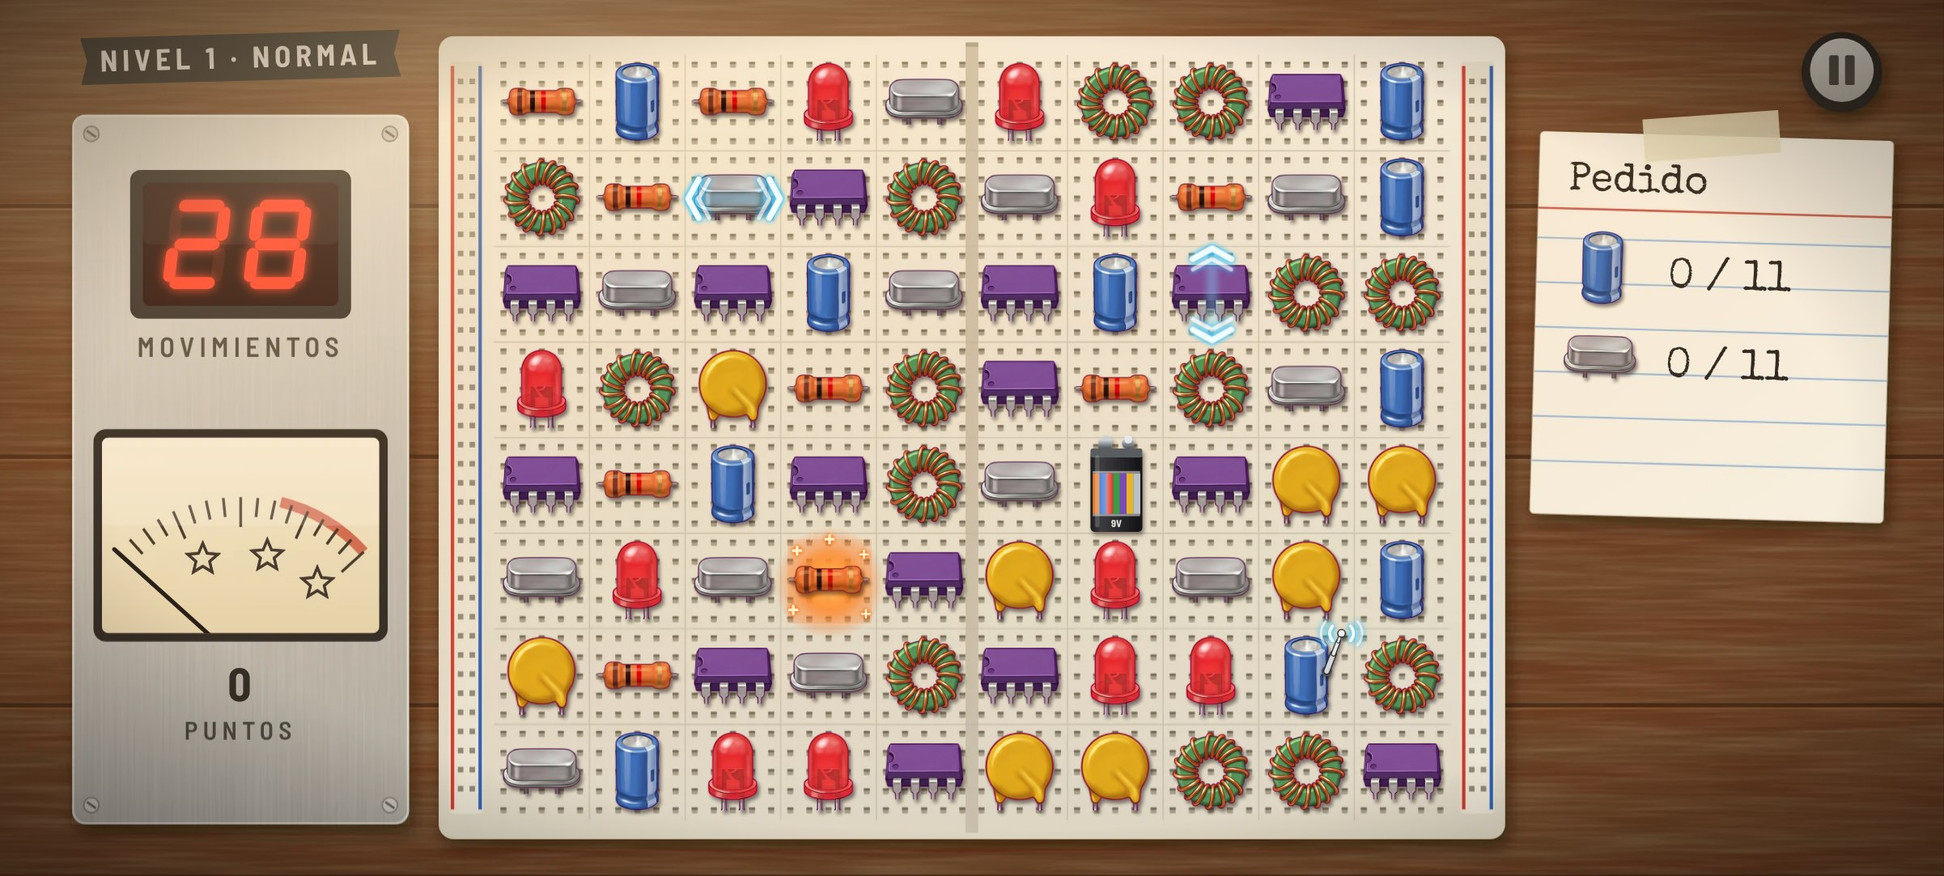
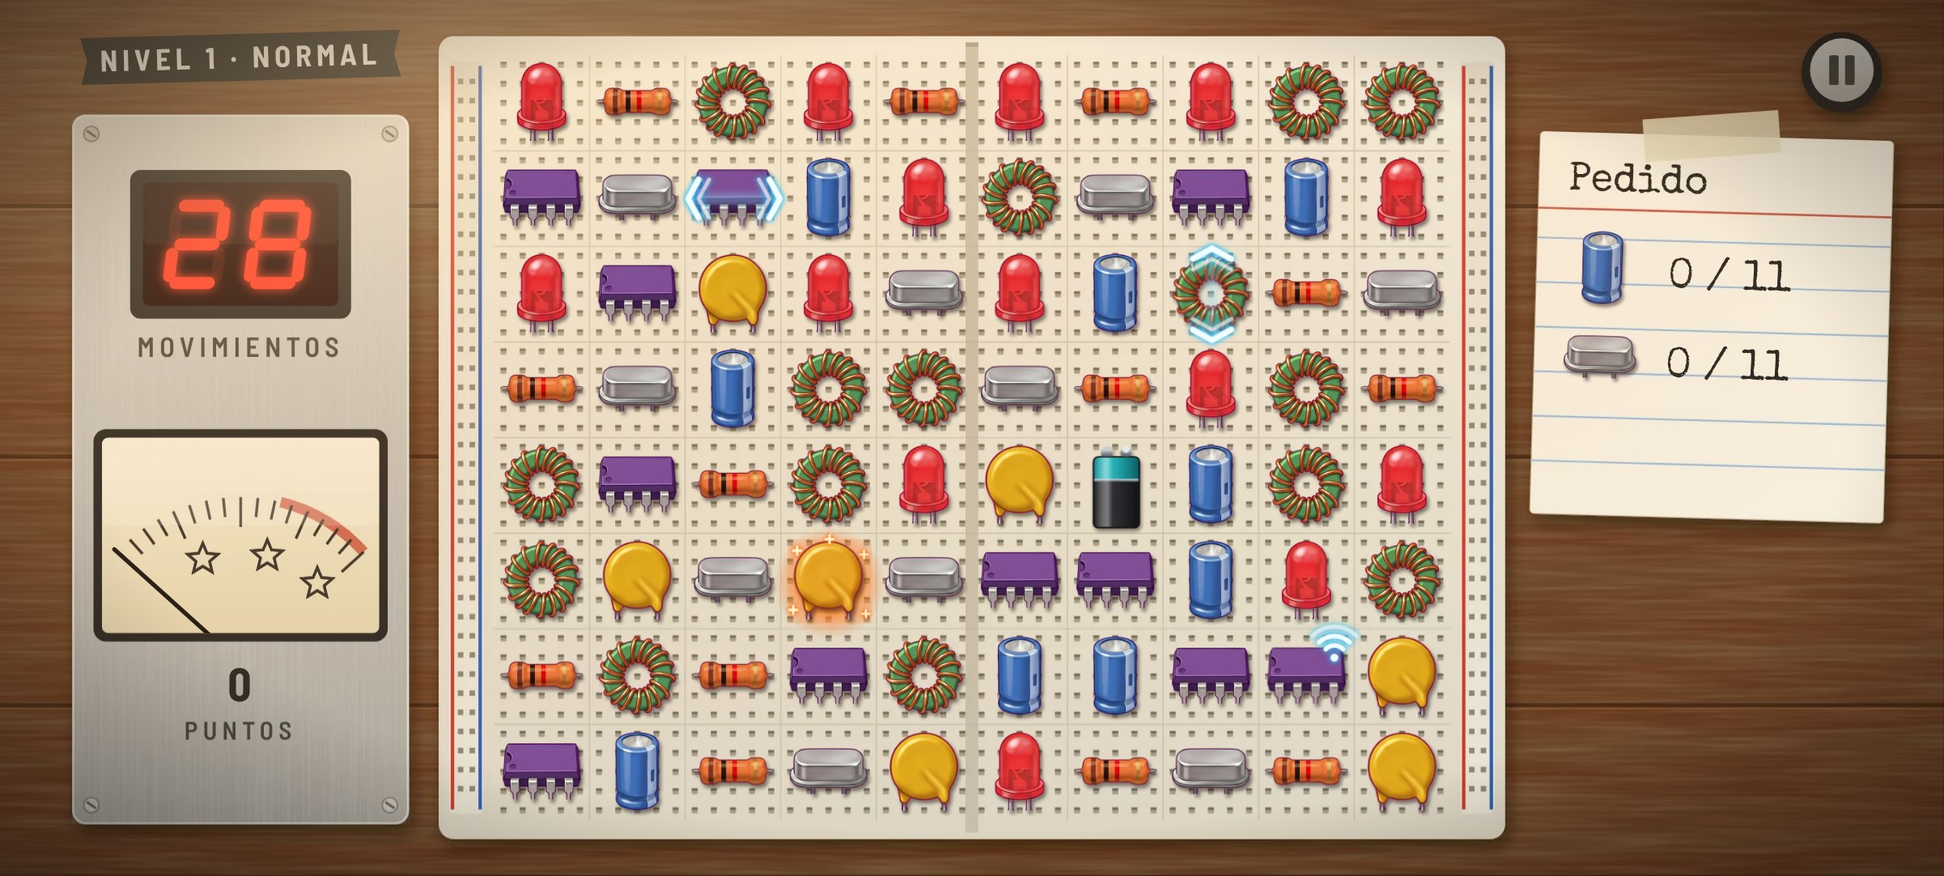
Sala: S-10 revisado (batería en dos colores, antena con wifi) y lámina del pedido P-005
Claude-Session: https://claude.ai/code/session_017azxToBAa3TBf46GAgtXxU

Changed region(s): [[0.2498, 0.061, 0.7494, 0.9455], [0.4371, 0.0915, 0.4996, 0.1525]]

diff --git a/herramientas/sala/arte-s10.js b/herramientas/sala/arte-s10.js
@@ -31,6 +31,8 @@ window.S10 = (() => {
     <linearGradient id="s10wood" x1="0" y1="0" x2="1" y2=".3"><stop offset="0" stop-color="#7c4523"/><stop offset=".5" stop-color="#6a3a1c"/><stop offset="1" stop-color="#5a3016"/></linearGradient>
     <linearGradient id="s10shadowT" x1="0" y1="0" x2="0" y2="1"><stop offset="0" stop-color="#140902" stop-opacity=".7"/><stop offset="1" stop-color="#140902" stop-opacity="0"/></linearGradient>
     <linearGradient id="s10shadowL" x1="0" y1="0" x2="1" y2="0"><stop offset="0" stop-color="#140902" stop-opacity=".6"/><stop offset="1" stop-color="#140902" stop-opacity="0"/></linearGradient>
+    <linearGradient id="s10teal" x1="0" y1="0" x2="1" y2="0"><stop offset="0" stop-color="#0f7e86"/><stop offset=".25" stop-color="#3fc6c8"/><stop offset=".55" stop-color="#1fa3a8"/><stop offset="1" stop-color="#0b5f66"/></linearGradient>
+    <linearGradient id="s10smoke" x1="0" y1="0" x2="1" y2="0"><stop offset="0" stop-color="#6f787e"/><stop offset=".25" stop-color="#b9c4c8"/><stop offset=".5" stop-color="#8e989d"/><stop offset="1" stop-color="#5a6268"/></linearGradient>
   </defs>`;
 
   const g = (x, y, s, body, extra = '') => `<g transform="translate(${x} ${y}) scale(${s / 100})" ${extra}>${body}</g>`;
@@ -50,31 +52,20 @@ window.S10 = (() => {
     sobreUnder: () => `<circle cx="50" cy="52" r="58" fill="url(#s10hot)"/><circle cx="50" cy="52" r="40" fill="url(#s10hot)"/>`,
     sobreOver: () => `<g filter="url(#s10ember)">${[[16, 18], [86, 22], [12, 80], [88, 84], [50, 6]].map(([x, y], i) => `<path d="M${x - 4},${y} h8 M${x},${y - 4} v8" stroke="#fff4c8" stroke-width="${i % 2 ? 2 : 2.6}" stroke-linecap="round"/>`).join('')}</g>
       <path d="M30,8 q4,-6 0,-12 M50,4 q4,-6 0,-12 M70,8 q4,-6 0,-12" stroke="#ffd59a" stroke-width="1.6" fill="none" opacity=".5"/>`,
-    // Battery: a 9 V battery whose label has the seven component colors.
-    bateria: () => {
-      const cols = ['#e07a2a', '#2f6fd6', '#e33a2c', '#3e9a4a', '#7a4bb3', '#e7b52a', '#b9c0c6'];
-      const band = cols.map((c, i) => `<rect x="${29 + i * 6}" y="40" width="6.2" height="36" fill="${c}"/>`).join('');
-      return `<g filter="url(#s10drop)" transform="translate(50 56) scale(1.18) translate(-50 -56)">
-        <rect x="27" y="22" width="46" height="70" rx="4" fill="url(#s10bat)"/>
-        ${band}
-        <rect x="29" y="40" width="42" height="36" fill="url(#s10gloss)"/>
-        <rect x="29" y="38" width="42" height="2" fill="#d9d9d9" opacity=".6"/><rect x="29" y="76" width="42" height="2" fill="#d9d9d9" opacity=".6"/>
-        <text x="50" y="88" text-anchor="middle" font-family="Barlow, sans-serif" font-weight="700" font-size="9" fill="#e9e5dc">9V</text>
-        <rect x="27" y="18" width="46" height="8" rx="2" fill="#5a5d61"/>
-        <path d="M34,18 v-8 h12 v8 z" fill="url(#s10steel)"/><path d="M35,10 l4,-3 h4 l4,3 z" fill="#c9cdd1"/>
-        <rect x="55" y="9" width="11" height="9" rx="4" fill="url(#s10steel)"/><circle cx="60.5" cy="10" r="3.5" fill="#e6e9ec"/>
-        <rect x="31" y="24" width="4" height="64" rx="2" fill="#fff" opacity=".18"/>
-      </g>`;
-    },
-    // Antenna: the component with a short telescopic whip and two wave arcs.
-    antena: () => `<g filter="url(#s10drop)">
-        <circle cx="70" cy="44" r="5.5" fill="#4a4e53"/><circle cx="70" cy="44" r="3.2" fill="#c9cdd1"/>
-        <path d="M70,44 L77,26" stroke="#2f3236" stroke-width="7.5" stroke-linecap="round"/><path d="M70,44 L77,26" stroke="#d3d7da" stroke-width="5" stroke-linecap="round"/>
-        <path d="M77,26 L82,13" stroke="#2f3236" stroke-width="5.6" stroke-linecap="round"/><path d="M77,26 L82,13" stroke="#e6e9ec" stroke-width="3.4" stroke-linecap="round"/>
-        <path d="M82,13 L85,5" stroke="#2f3236" stroke-width="4" stroke-linecap="round"/><path d="M82,13 L85,5" stroke="#f5f6f7" stroke-width="2.2" stroke-linecap="round"/>
-        <circle cx="85.5" cy="4.5" r="4" fill="#eef0f2" stroke="#2f3236" stroke-width="1.3"/></g>
-      <g filter="url(#s10blue)" fill="none" stroke="#f2fdff" stroke-linecap="round"><path d="M76,-3 A11,11 0 0 0 76,12" stroke-width="3"/><path d="M95,-3 A11,11 0 0 1 95,12" stroke-width="3"/>
-        <path d="M69,-8 A18,18 0 0 0 69,17" stroke-width="2.4" opacity=".6"/><path d="M102,-8 A18,18 0 0 1 102,17" stroke-width="2.4" opacity=".6"/></g>`,
+    // Battery: a standing 9 V battery, two-tone like the well-known copper-top scheme but black and turquoise; no text.
+    bateria: () => `<g filter="url(#s10drop)">
+        <rect x="26" y="20" width="48" height="74" rx="5" fill="url(#s10bat)"/>
+        <path d="M26,25 a5,5 0 0 1 5,-5 h38 a5,5 0 0 1 5,5 v19 h-48 z" fill="url(#s10teal)"/>
+        <rect x="26" y="43" width="48" height="3" fill="url(#s10steel)"/>
+        <rect x="26" y="20" width="48" height="74" rx="5" fill="url(#s10gloss)"/>
+        <rect x="26" y="20" width="48" height="74" rx="5" fill="none" stroke="#141416" stroke-width="1.6"/>
+        <path d="M34,20 v-8 h12 v8 z" fill="url(#s10steel)"/><path d="M35,12 l4,-3 h4 l4,3 z" fill="#c9cdd1"/>
+        <rect x="54" y="11" width="12" height="9" rx="4" fill="url(#s10steel)"/><circle cx="60" cy="12" r="3.6" fill="#e6e9ec"/>
+      </g>`,
+    // Antenna: the component with a wifi-like symbol whose arcs light up in turn (animated in the game).
+    antena: () => `<g filter="url(#s10blue)" fill="none" stroke="#f2fdff" stroke-linecap="round" transform="translate(78 30)">
+        <circle cx="0" cy="0" r="4" fill="#f2fdff" stroke="none"/>
+        <path d="M-9,-9 A12.7,12.7 0 0 1 9,-9" stroke-width="4.6"/><path d="M-16,-16 A22.6,22.6 0 0 1 16,-16" stroke-width="4.6"/><path d="M-23,-23 A32.5,32.5 0 0 1 23,-23" stroke-width="4.2" opacity=".55"/></g>`,
 
     // ---------- obstacles ----------
     // Copper pad under a component: one pass solders it.
@@ -84,7 +75,9 @@ window.S10 = (() => {
     pad2: () => D.pad1() + [[14, 14], [86, 14], [14, 86], [86, 86]].map(([x, y]) => `<circle cx="${x}" cy="${y + 1.5}" r="7" fill="#3a1c08" opacity=".5"/><circle cx="${x}" cy="${y}" r="6.5" fill="url(#s10brass)"/><circle cx="${x}" cy="${y}" r="2.2" fill="#4a3608"/>`).join(''),
     // Soldered pad: tinned, shiny.
     padOk: () => `<rect x="3" y="3" width="94" height="94" rx="9" fill="#b8bdc1"/><rect x="5" y="5" width="90" height="90" rx="8" fill="url(#s10tin)"/>
-      <ellipse cx="34" cy="28" rx="18" ry="8" fill="#fff" opacity=".55" transform="rotate(-20 34 28)"/>`,
+      <ellipse cx="50" cy="52" rx="24" ry="22" fill="#8d959b"/><ellipse cx="50" cy="50" rx="22" ry="20" fill="url(#s10tin)"/>
+      <ellipse cx="42" cy="42" rx="8" ry="5" fill="#fff" opacity=".8" transform="rotate(-25 42 42)"/>
+      <ellipse cx="30" cy="22" rx="14" ry="5" fill="#fff" opacity=".45" transform="rotate(-20 30 22)"/>`,
     // Burnt component: a charred, cracked blob with a scorch mark on the board. One hit.
     quem1: () => `<circle cx="50" cy="54" r="50" fill="url(#s10scorch)"/>
       <path d="M22,62 C14,44 26,22 46,20 C66,16 84,30 80,52 C86,70 70,86 50,84 C34,86 20,78 22,62 Z" fill="url(#s10char)" filter="url(#s10drop)"/>
@@ -108,13 +101,13 @@ window.S10 = (() => {
     valvula: () => `<circle cx="50" cy="50" r="40" fill="#ffa040" opacity=".35" filter="url(#s10soft)"/><g filter="url(#s10drop)" transform="translate(50 54) scale(1.3 1.12) translate(-50 -54)">
         ${[38, 46, 54, 62].map(x => `<rect x="${x - 1.2}" y="88" width="2.4" height="9" fill="#c9cdd1"/>`).join('')}
         <path d="M30,78 h40 v10 a4,4 0 0 1 -4,4 h-32 a4,4 0 0 1 -4,-4 z" fill="url(#s10bake)"/>
-        <rect x="38" y="36" width="24" height="34" rx="2" fill="#5d646a"/><rect x="40" y="38" width="20" height="30" fill="#3d4247"/>
+        <path d="M28,80 V30 C28,14 38,8 50,8 C62,8 72,14 72,30 V80 Z" fill="url(#s10smoke)"/>
+        <rect x="38" y="36" width="24" height="34" rx="2" fill="#4a5056"/><rect x="40" y="38" width="20" height="30" fill="#2c3035"/>
         <rect x="46.5" y="32" width="7" height="40" fill="#ffc070" filter="url(#s10ember)"/><rect x="48.8" y="34" width="2.4" height="36" fill="#fff4d0"/>
-        <path d="M28,80 V30 C28,14 38,8 50,8 C62,8 72,14 72,30 V80 Z" fill="url(#s10glass)" stroke="#ffffff" stroke-opacity=".55" stroke-width="1.5"/>
-        <path d="M30,30 C30,16 40,10 50,10 C60,10 70,16 70,30 C64,24 36,24 30,30 Z" fill="url(#s10getter)" opacity=".9"/>
-        <rect x="33" y="30" width="5" height="46" rx="2.5" fill="#fff" opacity=".45"/>
-      </g>
-      `,
+        <path d="M30,30 C30,16 40,10 50,10 C60,10 70,16 70,30 C64,24 36,24 30,30 Z" fill="url(#s10getter)"/>
+        <rect x="32" y="30" width="5" height="46" rx="2.5" fill="#fff" opacity=".55"/><rect x="64" y="34" width="2.5" height="40" rx="1.2" fill="#fff" opacity=".3"/>
+        <path d="M28,80 V30 C28,14 38,8 50,8 C62,8 72,14 72,30 V80 Z" fill="none" stroke="#3a4146" stroke-width="1.6"/>
+      </g>`,
     // Hole: no protoboard there; the walnut bench shows through, with the board's cut edge.
     hueco: () => `<rect x="0" y="0" width="100" height="100" fill="url(#s10wood)"/><rect x="0" y="0" width="100" height="100" fill="#000" filter="url(#s10grain)" opacity=".9"/>`,
   };

diff --git a/herramientas/sala/referencia-p005.html b/herramientas/sala/referencia-p005.html
@@ -1,0 +1,34 @@
+<!doctype html>
+<html lang="es">
+<head>
+<meta charset="utf-8">
+<!-- Reference sheet for image request P-005: the eight new objects on magenta, 4 × 2, like the P-002 sheet.
+     Only the objects: glows, sparks, scorch, tape and waves are drawn by code in the game. -->
+<style>html, body { margin: 0; background: #ff00ff; } svg { display: block; }</style>
+</head>
+<body>
+<svg id="s" width="1920" height="1080" viewBox="0 0 1920 1080" xmlns="http://www.w3.org/2000/svg"></svg>
+<script src="arte-s10.js"></script>
+<script>
+const D = S10.D, Z = 360;
+// strip what belongs to code (scorch halo, outer glow) from the object drawings
+const noHalo = str => str.replace(/<circle cx="50" cy="5[04]" r="50" fill="url\(#s10scorch\)"\/>/, '').replace(/<circle cx="50" cy="50" r="40" fill="#ffa040"[^>]*\/>/, '');
+// a single octal tube socket, seen like the pieces: from the front, a little from above
+const zocalo = () => `<g filter="url(#s10drop)">
+  <rect x="14" y="58" width="72" height="22" rx="4" fill="url(#s10bake)"/>
+  <ellipse cx="50" cy="58" rx="36" ry="16" fill="#4a3022"/><ellipse cx="50" cy="57" rx="33" ry="14" fill="#2a1a10"/>
+  <ellipse cx="50" cy="57" rx="10" ry="4.6" fill="#0e0805"/><rect x="48" y="51" width="4" height="4" fill="#0e0805"/>
+  ${[...Array(8)].map((_, i) => { const a = (i / 8) * Math.PI * 2 + .2; return `<ellipse cx="${50 + 24 * Math.cos(a)}" cy="${57 + 9.6 * Math.sin(a)}" rx="3" ry="1.6" fill="#0e0805"/><ellipse cx="${50 + 24 * Math.cos(a)}" cy="${57 + 9.6 * Math.sin(a) - .4}" rx="1.6" ry=".8" fill="#c9a13e"/>`; }).join('')}
+  <path d="M18,66 Q50,74 82,66" stroke="#6a4a32" stroke-width="1.4" fill="none"/>
+  ${[22, 78].map(x => `<rect x="${x - 7}" y="60" width="14" height="5" rx="1.5" fill="url(#s10steel)"/><circle cx="${x}" cy="62.5" r="1.6" fill="#4e5459"/>`).join('')}
+</g>`;
+const ITEMS = [D.bateria(), D.pad1(), D.pad2(), D.padOk(), noHalo(D.quem1()), noHalo(D.quem2()), noHalo(D.valvula()), zocalo()];
+let out = S10.defs + '<rect width="1920" height="1080" fill="#ff00ff"/>';
+ITEMS.forEach((body, i) => {
+  const cx = 240 + (i % 4) * 480, cy = i < 4 ? 270 : 810;
+  out += `<g transform="translate(${cx - Z / 2} ${cy - Z / 2}) scale(${Z / 100})">${body}</g>`;
+});
+document.getElementById('s').innerHTML = out;
+</script>
+</body>
+</html>

diff --git a/herramientas/sala/catalogo-s10.html b/herramientas/sala/catalogo-s10.html
@@ -19,7 +19,7 @@ const BASE = '../../docs/sala/maqueta-fogonazo/', T = 158, K = T / 45;
 const cellBg = (x, y, r, c, dy = 0) => `<svg x="${x}" y="${y}" width="${T}" height="${T}" viewBox="0 0 ${T} ${T}"><image href="${BASE}fondo.webp" x="${-(232.5 + c * 45) * K}" y="${-(26 + r * 45 + dy) * K}" width="${915 * K}" height="${412 * K}"/></svg>`;
 const ITEMS = [
   // [kind, name, note, piece type]
-  [['rayoH', 'Rayo', 'barre la fila', 0], ['rayoV', 'Rayo', 'barre la columna', 4], ['sobre', 'Sobrecarga', 'explota alrededor', 3], ['bateria', 'Batería', 'pila de 9 V, etiqueta de 7 colores', null], ['antena', 'Antena', 'transmite a un blanco', 2]],
+  [['rayoH', 'Rayo', 'barre la fila', 0], ['rayoV', 'Rayo', 'barre la columna', 4], ['sobre', 'Sobrecarga', 'explota alrededor', 3], ['bateria', 'Batería', 'pila de 9 V en dos colores', null], ['antena', 'Antena', 'ondas animadas sobre la pieza', 2]],
   [['pad1', 'Pad de cobre', 'una pasada', 1], ['pad2', 'Pad con remaches', 'dos pasadas', 5], ['padOk', 'Pad soldado', 'estañado', 3], ['quem1', 'Quemado', 'un golpe', null], ['quem2', 'Quemado con carcasa', 'dos golpes (TO-3)', null]],
   [['kapton', 'Cinta kapton', 'se despega con una línea', 2], ['valvula', 'Válvula', 'baja hasta el zócalo', null], ['hueco', 'Hueco', 'sin protoboard: se ve la mesa', null], ['zocalo', 'Zócalo', 'debajo de la fila de abajo', null]],
 ];

diff --git a/docs/sala/README.md b/docs/sala/README.md
@@ -46,7 +46,7 @@ Las referencias que se usaron para orientar el estilo (las ilustraciones isomét
 | S-07 | Estructura nueva de Fogonazo (26/10, ver [estructura](../estructura.md)): [a · pantalla-instrumento en Niveles](bocetos/S-07a-fogonazo-instrumento-niveles.png), [b · en Récords, con el aviso de Chrome](bocetos/S-07b-fogonazo-instrumento-records.png), [c · sonido con el parlante y los vúmetros](bocetos/S-07c-fogonazo-sonido.png), [d · mapa continuo en una placa verde](bocetos/S-07d-fogonazo-mapa.png), [e · nota de cuaderno de una novedad](bocetos/S-07e-fogonazo-nota.png) | Revisado el 26/10: la idea sirve, pero el instrumento tiene que verse real, en perspectiva y voluminoso (con Gemini); la placa del parlante, de pertinax como un proyecto de revista; el mapa, una señal sobre hoja milimetrada; la nota, bien, con la partida menos amontonada. Sigue en S-08 |
 | S-08 | [a · escena del instrumento en perspectiva](bocetos/S-08a-fogonazo-escena-instrumento.png), composición para Gemini ([versión limpia](bocetos/S-08a-fogonazo-escena-instrumento-limpia.png), sin textos ni contenido de pantalla); [b · mapa como señal medida sobre hoja milimetrada](bocetos/S-08b-fogonazo-mapa-milimetrado.png); [c · partida redistribuida con la nota](bocetos/S-08c-fogonazo-partida-nota.png) | Aprobado: es la base de la maqueta de Fogonazo |
 | S-09 | Legibilidad de la maqueta de Fogonazo (26/10), capturada al tamaño del teléfono: [a · instrumento, antes y después](bocetos/S-09a-tipografias-instrumento.jpg), [b · récords](bocetos/S-09b-tipografias-records.jpg), [c · sonido y manual como página de revista](bocetos/S-09c-sonido-y-manual.jpg) | Aprobado (26/10), con las palabras de las perillas un poco más chicas que en la propuesta, porque casi desbordaban el frente |
-| S-10 | Especiales y obstáculos en el estilo del banco (26/10), dibujados con código como guía para el pedido de imágenes: [a · especiales en la partida](bocetos/S-10a-especiales-partida.jpg) (rayo en fila y en columna, sobrecarga, batería, antena), [b · obstáculos en la partida](bocetos/S-10b-obstaculos-partida.jpg) (pads en sus tres estados, quemados, cinta kapton, válvulas, huecos y zócalo), [c · lámina de detalle](bocetos/S-10c-catalogo.jpg). Se generan con [`herramientas/sala/arte-s10.js`](../../herramientas/sala/arte-s10.js), [`boceto-s10.js`](../../herramientas/sala/boceto-s10.js) sobre la maqueta y [`catalogo-s10.html`](../../herramientas/sala/catalogo-s10.html) | En discusión |
+| S-10 | Especiales y obstáculos en el estilo del banco (26/10), dibujados con código como guía para el pedido de imágenes: [a · especiales en la partida](bocetos/S-10a-especiales-partida.jpg) (rayo en fila y en columna, sobrecarga, batería de 9 V en dos colores, antena con un símbolo de wifi animado), [b · obstáculos en la partida](bocetos/S-10b-obstaculos-partida.jpg) (pads en sus tres estados, quemados, cinta kapton, válvulas, huecos y zócalo), [c · lámina de detalle](bocetos/S-10c-catalogo.jpg). Se generan con [`herramientas/sala/arte-s10.js`](../../herramientas/sala/arte-s10.js), [`boceto-s10.js`](../../herramientas/sala/boceto-s10.js) sobre la maqueta y [`catalogo-s10.html`](../../herramientas/sala/catalogo-s10.html) | Revisado el 26/10: la batería, parada y en dos colores (como la conocida pila de tope cobre, en negro y turquesa); la antena sin varilla, que no se entendía, con un símbolo de wifi animado. Base del pedido P-005 |
 
 ## Cómo se trabaja la imagen
 
@@ -77,6 +77,7 @@ Desde el 25/10 los pedidos se escriben en la mesa de trabajo; cuando se cierran,
 
 - **P-003, resistencia más gruesa** (26/10). Edición puntual sobre la entrega del P-002: solo la resistencia, con el cuerpo el doble de largo que de alto y patas cortas. **Entrega:** [`arte/fogonazo/P-003_piezas-fogonazo.jpg`](arte/fogonazo/P-003_piezas-fogonazo.jpg), 2752 × 1536, otra vez en JPEG (una primera subida fue una vista reducida de 1024 × 572). **Revisión:** la edición fue puntual, y fuera de la celda 1 solo cambió la punta de la pata que asomaba en la celda 2. Pero no cumplió el objetivo: Gemini agrandó la resistencia entera, de 160 a 200 píxeles de alto y también más larga, sin cambiar la proporción (2,4 a 1). Montada en la casilla queda igual que la del P-002, a 14 píxeles de alto ([comparación](bocetos/P-003-comparacion-resistencia.png)). Desarrollo propuso engrosarla en código, estirada un 35 % (unos 19 píxeles), y Producto prefirió el dibujo original de Gemini. Queda vigente la del P-003, que tiene la misma forma pero más resolución. Reemplaza entera a la del P-002, porque las otras seis piezas son idénticas.
 - **P-004, escena del instrumento** (26/10). La pantalla propia de Fogonazo a partir de la composición [S-08a](bocetos/S-08a-fogonazo-escena-instrumento-limpia.png), con la sala y el recorte de revista de Producto (en Referencias de Drive) como referencias. **Con Gemini** costó mucho que hiciera lo pedido; la entrega ([historial](arte/historial/P-004_escena-instrumento-gemini.jpg), 2752 × 1536 en JPEG) se aparta del boceto: parece un televisor visto de frente, con una sola fila de LEDs, el parlante a la derecha, pared de madera y mucho desgaste ([montaje](bocetos/P-004-montaje-telefono-gemini.png)). **Con ChatGPT**, Producto le pasó la sala, el boceto y solo el extracto del pedido, sin la mesa: respetó el boceto (tapa con rejillas, dos filas de LEDs, placa girada, parlante conectado, pared de la sala) y quedó más limpio ([montaje](bocetos/P-004-montaje-telefono-chatgpt.png)). Salió de 1679 × 937, en PNG; el teléfono la estira un 43 %, aceptable por el estilo pintado. El título de la revista trae letras inventadas, chicas y casi fuera del recorte. **Vigente: la de ChatGPT.**
+- **P-005, especiales y obstáculos** (26/10, en curso). Las ocho piezas que dibuja la IA, a partir de la lámina [`P-005-referencia.png`](bocetos/P-005-referencia.png) (salida de [`herramientas/sala/referencia-p005.html`](../../herramientas/sala/referencia-p005.html)): batería, pad de cobre, pad con remaches, pad soldado, quemado, quemado con carcasa TO-3, válvula y zócalo octal. Lo demás (flechas del rayo, halo de la sobrecarga, wifi de la antena, cinta kapton, hollín, madera del hueco, tira del zócalo) se dibuja con código. Primera prueba de la mecánica nueva: todo en una conversación de ChatGPT, que admite dos imágenes; Producto adjunta primero las piezas del P-003 como resultado esperado y después la lámina, con el pedido en texto. El vidrio de la válvula se pide ahumado y casi opaco, para que el magenta no se vea a través.
 
 > Te paso dos imágenes. La primera es un boceto de composición de la sala completa de mi juego (vista frontal). La segunda es la ilustración que ya aprobamos del sector del equipo de audio. Convertí el boceto en una ilustración con exactamente el mismo estilo, paleta e iluminación que la segunda imagen.
 > - Mantené el encuadre y la posición de cada mueble del boceto.

diff --git a/docs/decisiones.md b/docs/decisiones.md
@@ -121,6 +121,7 @@ Las fechas son de 2026. Hasta el 3/10 el proyecto vivió en claude.ai, en la bit
 - **Letras legibles en el teléfono** (26/10, S-09). La escena del instrumento se ve a un 55 % de la imagen, así que los textos se miden en píxeles reales: nada por debajo de unos 10. El osciloscopio pasa a IBM Plex Mono SemiBold, con menos brillo. Las palabras de las perillas quedan un poco más chicas que en la propuesta para no rozar el borde del frente. *Antes:* Share Tech Mono y textos de 6 a 9 píxeles reales.
 - **El manual, una página de revista de hobbista** (26/10, S-09): papel envejecido, título, bajada, dos columnas en serif, foto en sepia con trama, pegada con cinta y un poco torcida. *Antes:* un recuadro blanco plano.
 - **La sala lleva a la maqueta de Fogonazo** (26/10). El banco de electrónica abre la pantalla-instrumento, que vuelve a la sala con «◀ Sala»; así queda armado el camino completo para probar. La tarjeta «próximamente» de Fogonazo se quitó.
+- **Especiales y obstáculos como objetos del banco** (26/10, S-10). Rayo, sobrecarga y antena son la pieza con una señal dibujada con código (flechas eléctricas, halo al rojo, un símbolo de wifi animado); la batería es una pila de 9 V parada, en dos colores como la conocida pila de tope cobre pero en negro y turquesa. Pads de cobre (con remaches si son de dos pasadas, estañados al soldarse), quemados carbonizados (en cápsula TO-3 los de dos golpes), cinta kapton ámbar, válvula de vidrio ahumado, zócalo octal y huecos donde se ve la mesa. *Descartados:* la etiqueta de siete colores de la batería y la antena telescópica, que no se entendía.
 - **Vista frontal** (24/10, S-03b). Llena la pantalla, los muebles se ven de frente y admiten más detalle, y no hay ambigüedades de profundidad. *Descartados:* la isométrica recortada (deja esquinas vacías) y una isométrica más grande que la pantalla, que se arrastra (como menú suma un paso; puede servir para buscar y encontrar).
 - **Las imágenes las genera Gemini; Desarrollo hace el resto** (25/10). Dibujando con código, la geometría sale coherente pero no llega al realismo buscado (S-04). Producto probó ChatGPT y Gemini, y siguió con Gemini. Se trabaja con cambios puntuales sobre la misma imagen, para que no se muevan las zonas medidas. *Descartados:* modelar la sala en 3D (Producto no tiene tiempo) y seguir dibujando con código.
 - **Gemini como herramienta de edición, con una sola mesa de trabajo en Drive** (25/10). Gemini ejecuta pedidos escritos por Desarrollo y aprobados por Producto, desde una Gem. Un único documento en la carpeta privada «IAs - Proyectos / Minijuegos», la «Mesa de trabajo», que escribe Desarrollo y Gemini lee antes de cada trabajo: mecánica general, exigencias técnicas, lo vigente y los pedidos en curso, sin historial (queda acá). Carpetas Entregas, Vigentes, Superados y Referencias; Desarrollo revisa y mueve los archivos. Las instrucciones de la Gem son generales y no llevan documentos adjuntos: lo específico está en la mesa. *Descartado:* darle a Gemini rol de equipo, con memoria propia y un documento conjunto; desde la Gem editar resultó poco confiable y la Gem solo responde pedidos. Detalle en [sala/](sala/README.md#trabajo-con-gemini-en-drive).
